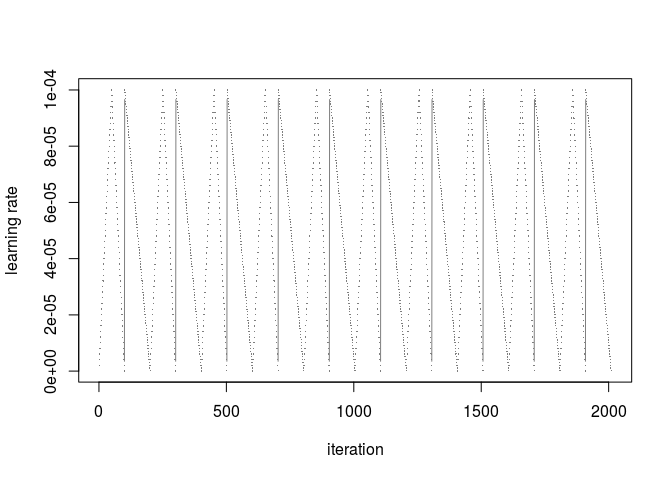
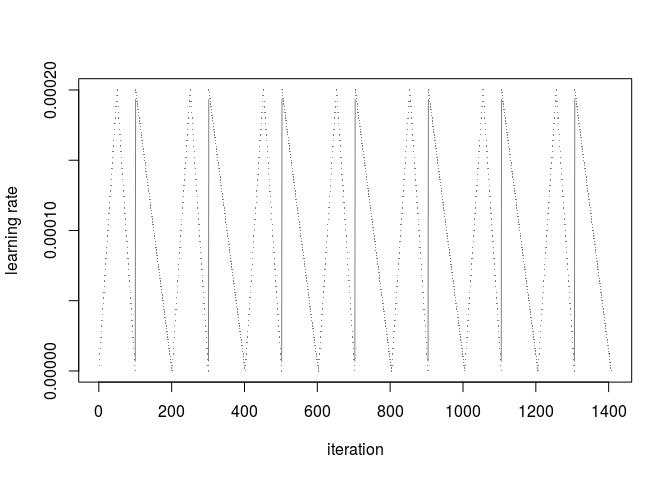
Changing maximum learning rate for fine tuning

diff --git a/Fine-tune-layer-4.md b/Fine-tune-layer-4.md
@@ -120,8 +120,8 @@ Plotting to see if it works :
     ## <keras_preprocessing.image.dataframe_iterator.DataFrameIterator>
 
     ## List of 2
-    ##  $ : num [1:4, 1:448, 1:448, 1:3] 90 77.3 246 44.4 85.2 ...
-    ##  $ : num [1:4, 1:4] 1 1 0 1 0 0 0 0 0 0 ...
+    ##  $ : num [1:4, 1:448, 1:448, 1:3] 72.3 81.5 103.6 159.5 93.9 ...
+    ##  $ : num [1:4, 1:4] 1 0 0 1 0 0 0 0 0 0 ...
 
 # Impot pre-trained model
 
@@ -587,16 +587,16 @@ divided by 10. Same for the base\_lr.
 
 ``` r
 n=100
-nb_epochs=20
+nb_epochs=15
 n_iter<-n*nb_epochs
 ```
 
 ``` r
-l_rate_cyclical <- Cyclic_LR(iteration=1:n, base_lr=1e-7, max_lr=(1e-3)/10, step_size=floor(n/2),
+l_rate_cyclical <- Cyclic_LR(iteration=1:n, base_lr=1e-7, max_lr=(1e-3)/5, step_size=floor(n/2),
                         mode='triangular', gamma=1, scale_fn=NULL, scale_mode='cycle')
 
 
-l_rate_cosine_annealing <- Cyclic_LR(iteration=1:n_iter, base_lr=1e-7, max_lr=(1e-3)/10, step_size=floor(n),
+l_rate_cosine_annealing <- Cyclic_LR(iteration=1:n_iter, base_lr=1e-7, max_lr=(1e-3)/5, step_size=floor(n),
                         mode='halfcosine', gamma=1, scale_fn=NULL, scale_mode='cycle')
 
 l_rate_cosine_annealing <- rep(l_rate_cosine_annealing[n:(n*2)])
